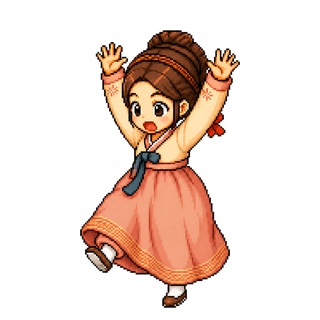
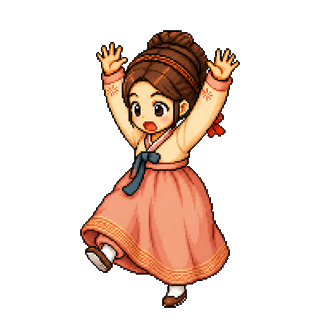
remove white matte from herb startle frame

diff --git a/src/index.html b/src/index.html
@@ -5,13 +5,13 @@
   <meta name="viewport" content="width=device-width,initial-scale=1,viewport-fit=cover">
   <title>선화공주 만들기 — 자산 로딩 테스트</title>
   <link rel="stylesheet" href="style.css?v=0.64.18-debug">
-  <link rel="stylesheet" href="schedule.css?v=0.64.51-debug">
+  <link rel="stylesheet" href="schedule.css?v=0.64.52-debug">
   <link rel="stylesheet" href="schedule-pm2.css?v=0.64.18-debug">
   <link rel="stylesheet" href="birthday.css?v=0.64.18-debug">
   <link rel="stylesheet" href="prologue.css?v=0.64.18-debug">
   <link rel="stylesheet" href="rain-v2.css">
   <link rel="stylesheet" href="naming.css?v=0.64.18-debug">
-  <link rel="stylesheet" href="guardian.css?v=0.64.51-debug">
+  <link rel="stylesheet" href="guardian.css?v=0.64.52-debug">
   <link rel="stylesheet" href="guardian-anime.css?v=0.64.18-debug">
   <link rel="stylesheet" href="naming-stable.css?v=0.64.18-debug">
   <link rel="stylesheet" href="live-changes.css?v=0.64.18-debug">
@@ -48,7 +48,7 @@
       </div>
       <span class="loading-caption">이야기를 열 준비가 되었어요</span>
       <button class="studio-start-sound" id="studioStartSound" type="button">인연의 문을 열기</button>
-      <small class="loading-version" aria-label="현재 게임 버전">v0.64.51-debug</small>
+      <small class="loading-version" aria-label="현재 게임 버전">v0.64.52-debug</small>
     </section>
     <section class="prologue" id="prologue" aria-label="이야기 시작 영상" hidden>
       <audio id="prologueMusic" src="../assets/audio/music/prologue-lantern-and-dawn.mp3" preload="auto" loop></audio>
@@ -244,6 +244,6 @@
       </div>
     </section>
   </main>
-  <script src="schedule-layer-manifests.js?v=0.64.18-debug"></script><script src="story-data.js?v=0.64.18-debug"></script><script src="app.js?v=0.64.51-debug"></script>
+  <script src="schedule-layer-manifests.js?v=0.64.18-debug"></script><script src="story-data.js?v=0.64.18-debug"></script><script src="app.js?v=0.64.52-debug"></script>
 </body>
 </html>

diff --git a/src/app.js b/src/app.js
@@ -237,7 +237,7 @@ const vacationIllustrations=[
 function unifiedAgeFolder(){return '09';}
 function scheduleFramePath(file){return `../assets/characters/seonhwa/schedule-actions/${file}`;}
 function scheduleBasePath(file){return `../assets/characters/seonhwa/schedule-base/${file}`;}
-const scheduleAssetRevision='0.64.51-debug';
+const scheduleAssetRevision='0.64.52-debug';
 const scheduleQaParams=new URLSearchParams(location.search);
 const moonlightStandaloneQa=scheduleQaParams.get('qaHoliday')==='chuseok';
 const sehwaStandaloneQa=scheduleQaParams.get('qaHoliday')==='seollal';

diff --git a/tools/normalize_pixel_alpha.py b/tools/normalize_pixel_alpha.py
@@ -1,0 +1,28 @@
+"""Remove translucent matte pixels from approved hard-edge pixel sprites."""
+
+import argparse
+from pathlib import Path
+
+from PIL import Image
+
+
+def normalize(path: Path, threshold: int) -> None:
+    image = Image.open(path).convert("RGBA")
+    pixels = image.load()
+    for y in range(image.height):
+        for x in range(image.width):
+            red, green, blue, alpha = pixels[x, y]
+            pixels[x, y] = (red, green, blue, 255 if alpha >= threshold else 0)
+    image.save(path, "PNG", optimize=True)
+
+
+def main() -> None:
+    parser = argparse.ArgumentParser()
+    parser.add_argument("path", type=Path)
+    parser.add_argument("--threshold", type=int, default=128)
+    args = parser.parse_args()
+    normalize(args.path, args.threshold)
+
+
+if __name__ == "__main__":
+    main()

diff --git a/CHANGELOG.md b/CHANGELOG.md
@@ -1,3 +1,9 @@
+# v0.64.52-debug · 2026-08-25
+
+- 약초 실패 중간 프레임 가장자리의 반투명 흰색 매트 328픽셀을 제거했습니다.
+- 중간 프레임 알파를 픽셀아트 규격인 완전 투명·완전 불투명 두 단계로 정규화해 어두운 배경에서도 흰 구간이 나타나지 않게 했습니다.
+- 승인된 픽셀 스프라이트의 알파를 다시 정규화할 수 있는 도구를 추가했습니다.
+
 # v0.64.51-debug · 2026-08-25
 
 - 레이어 일정의 성인 NPC와 선화 중심 간격을 46%에서 58%로 확대해 146px·178px 프레임의 불투명 영역이 겹치지 않게 했습니다.
